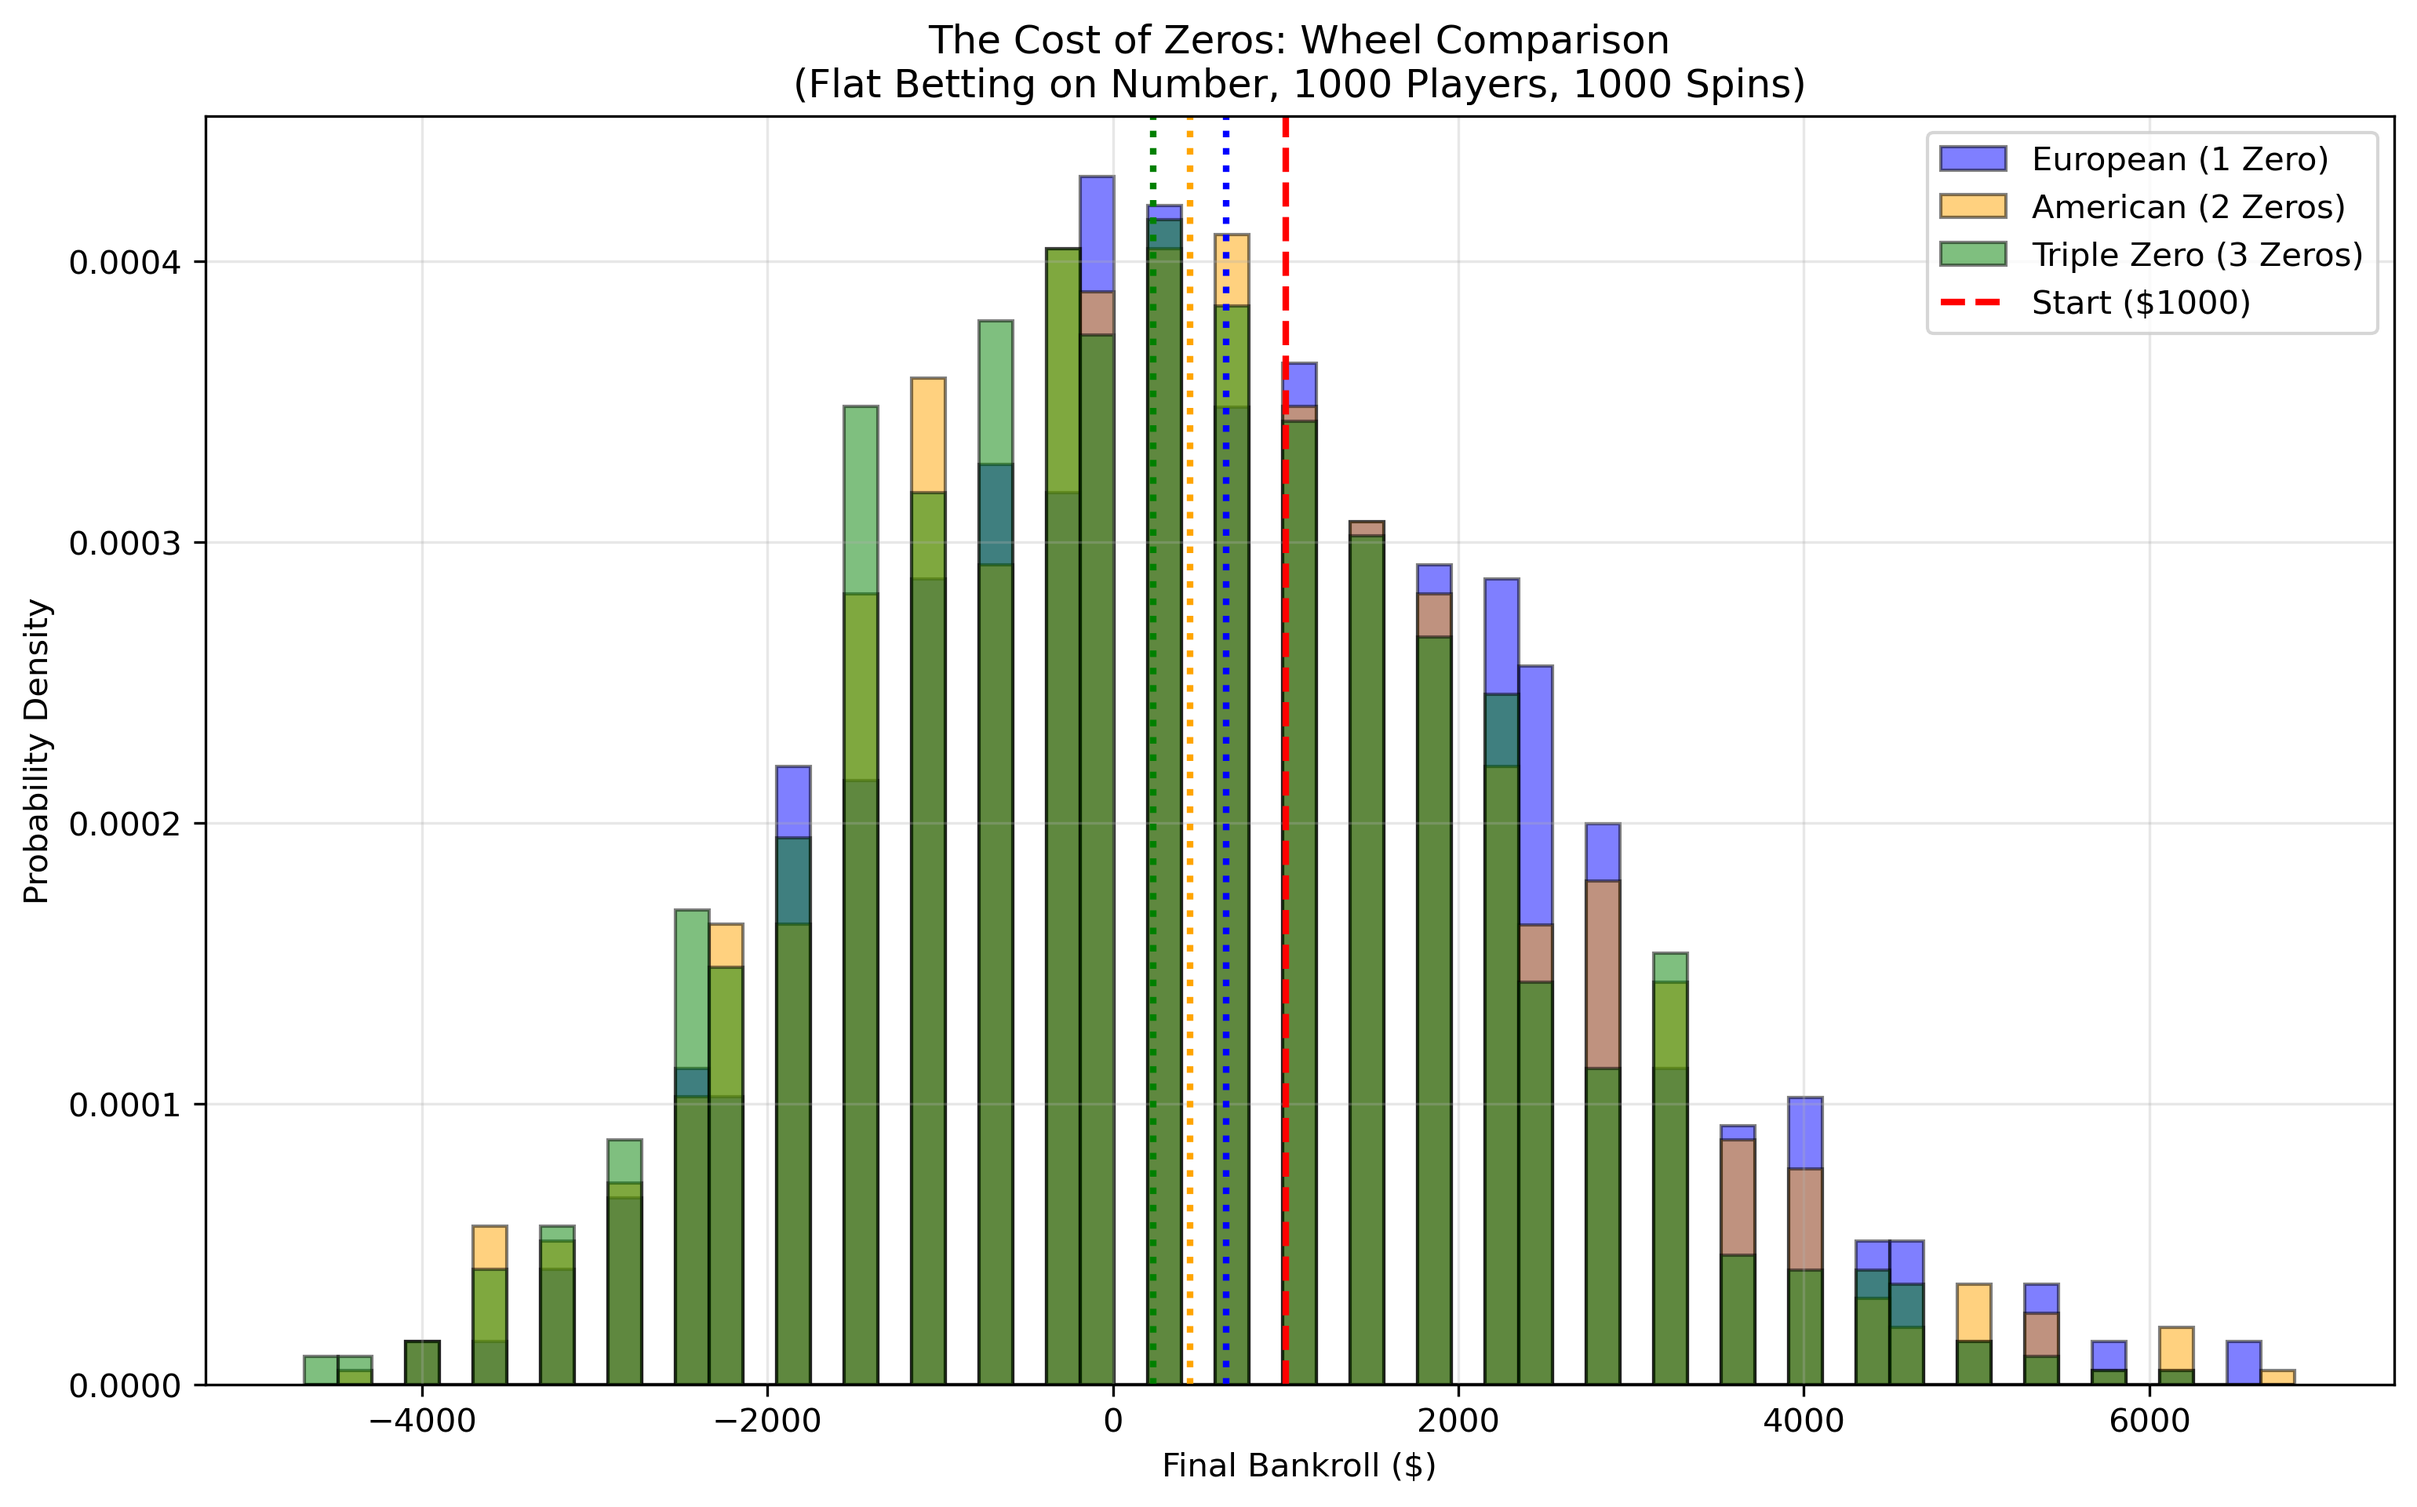
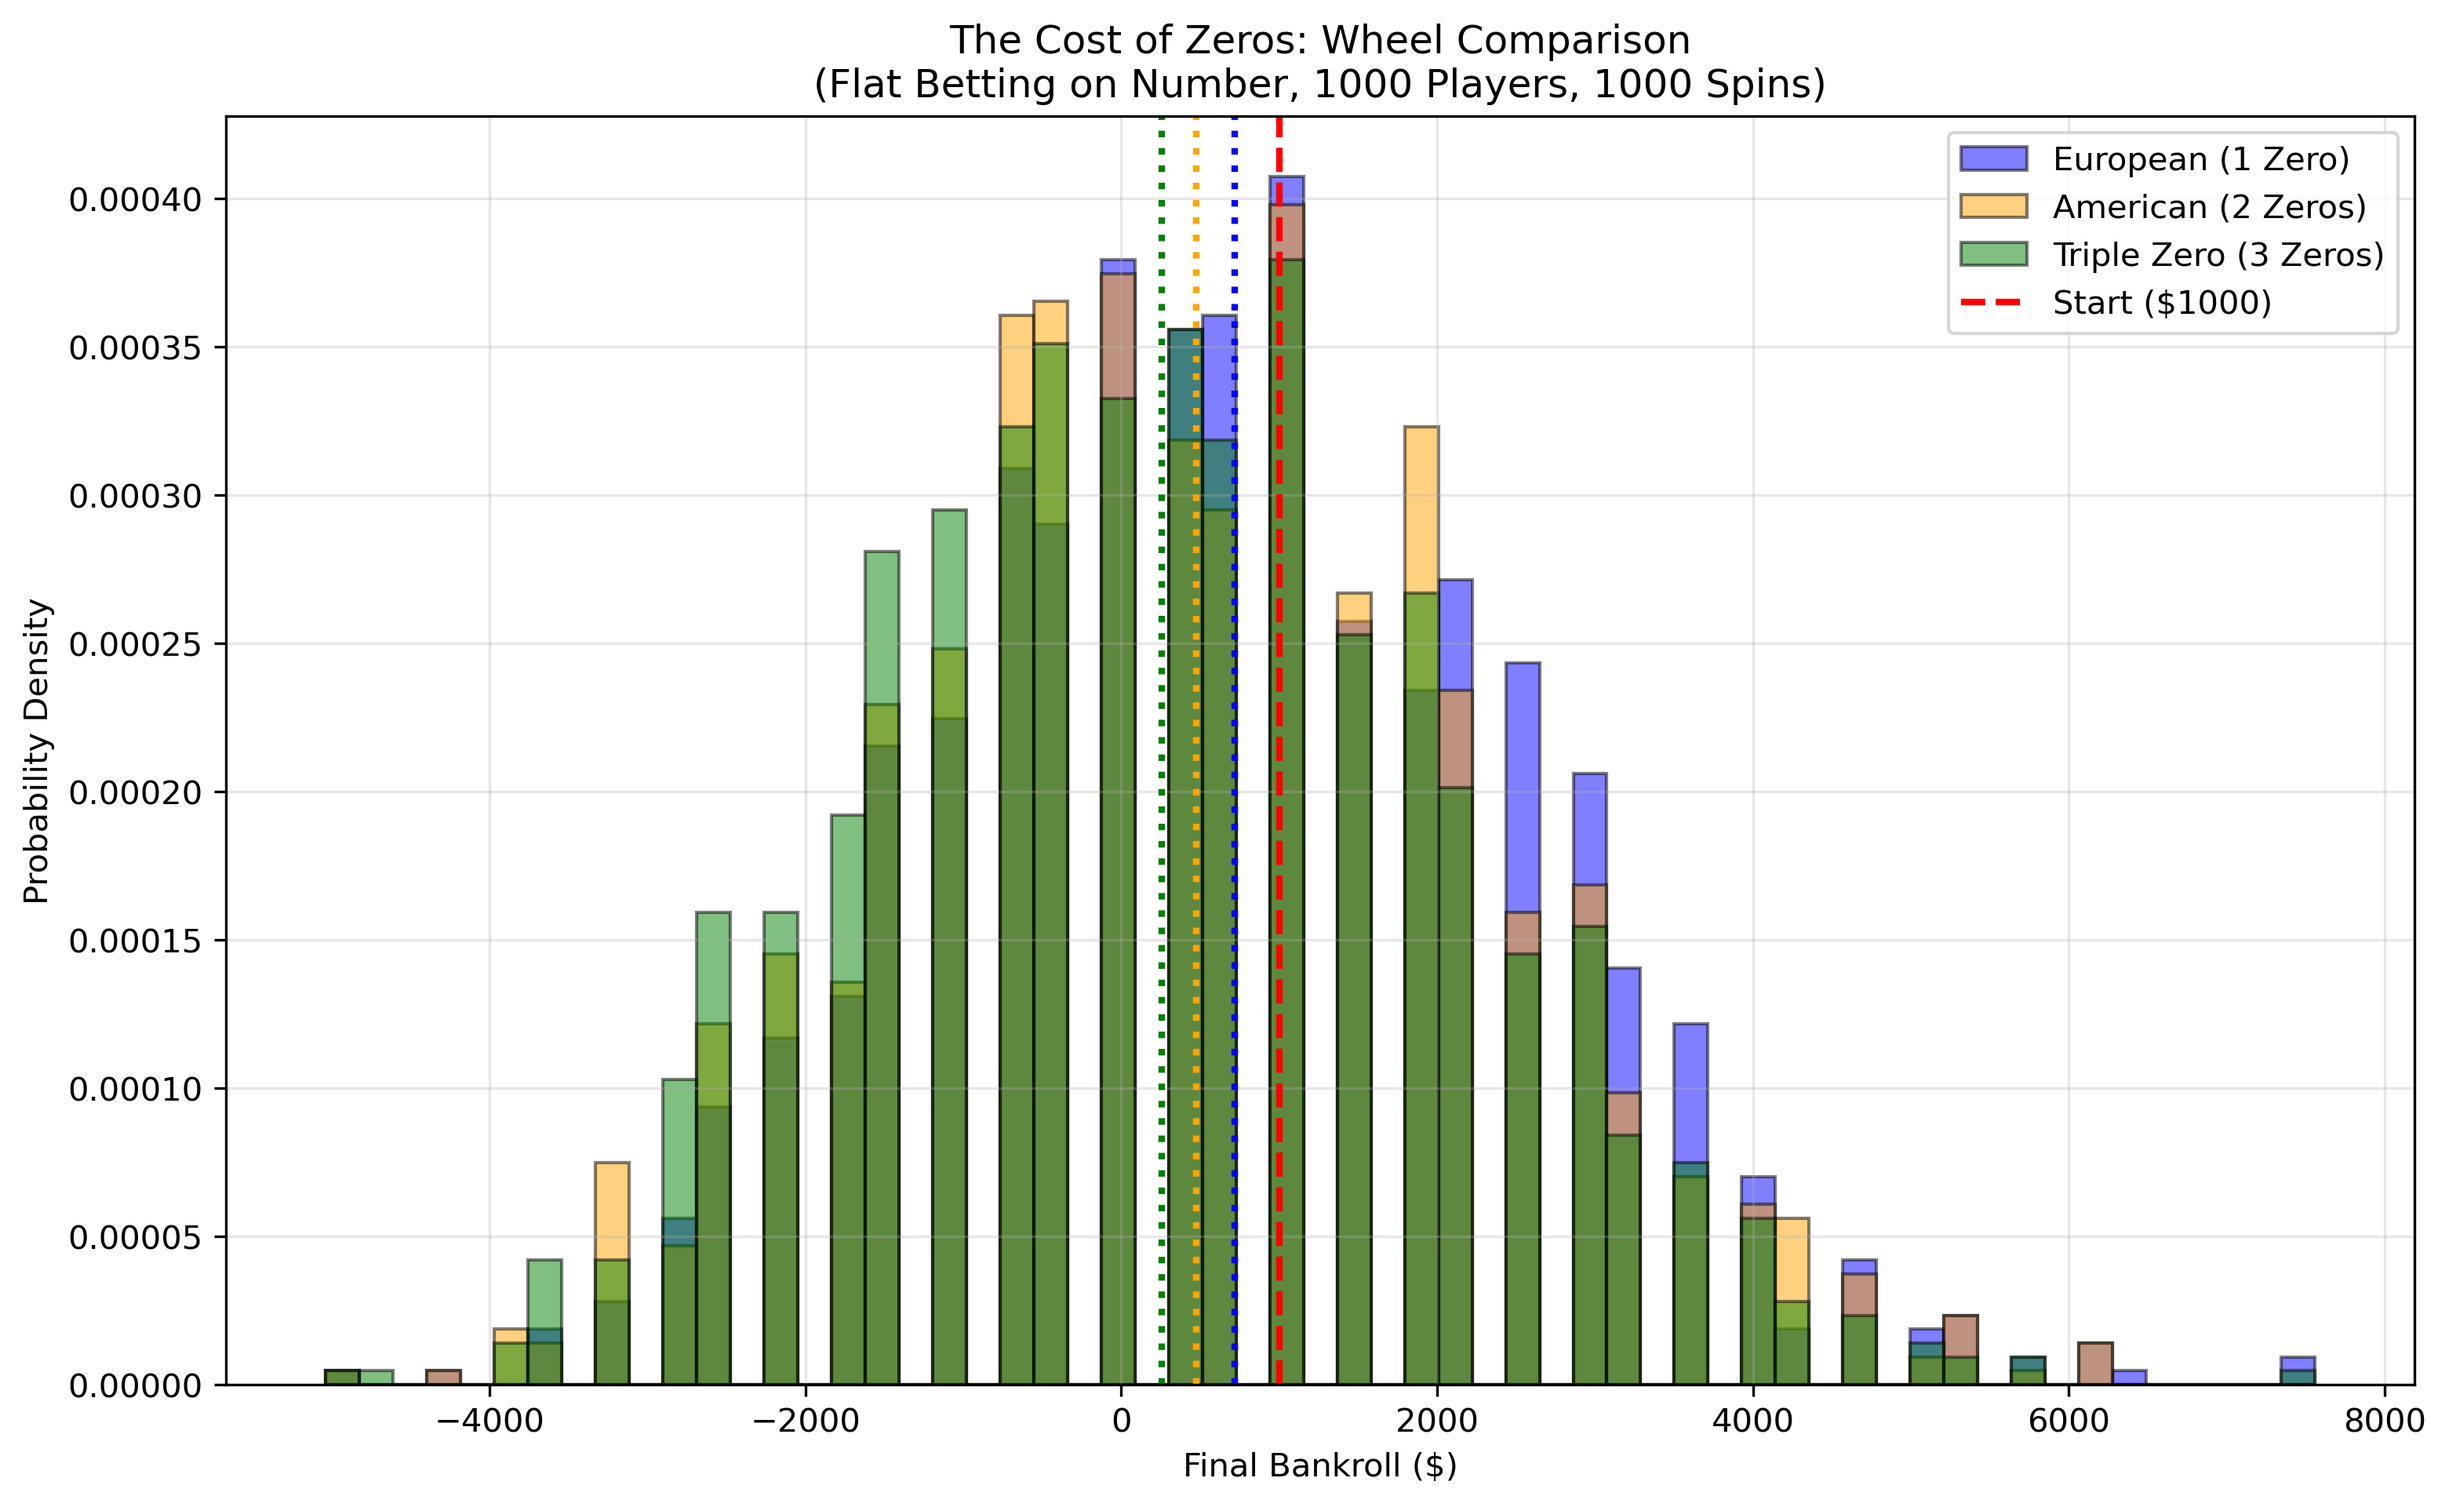
Fixing comparision martingale plot and plots on the slides

diff --git a/utils/monte_carlo_helpers.py b/utils/monte_carlo_helpers.py
@@ -158,9 +158,9 @@ def create_martingale_comparison(euro_data, amer_data, trip_data, num_players):
     bins = np.linspace(data_min, data_max, 60)
     
     # Plot with transparency
-    plt.hist(euro_data, bins=bins, alpha=0.5, label='European (1 Zero)', color='blue', edgecolor='black', density=True)
-    plt.hist(amer_data, bins=bins, alpha=0.5, label='American (2 Zeros)', color='orange', edgecolor='black', density=True)
-    plt.hist(trip_data, bins=bins, alpha=0.5, label='Triple Zero (3 Zeros)', color='green', edgecolor='black', density=True)
+    plt.hist(euro_data, bins=bins, alpha=0.5, label='European (1 Zero)', color='blue', edgecolor='black')
+    plt.hist(amer_data, bins=bins, alpha=0.5, label='American (2 Zeros)', color='orange', edgecolor='black')
+    plt.hist(trip_data, bins=bins, alpha=0.5, label='Triple Zero (3 Zeros)', color='green', edgecolor='black')
     
     # Reference Line (Start)
     plt.axvline(x=1000, color='red', linestyle='--', linewidth=2, label='Start ($1000)')
